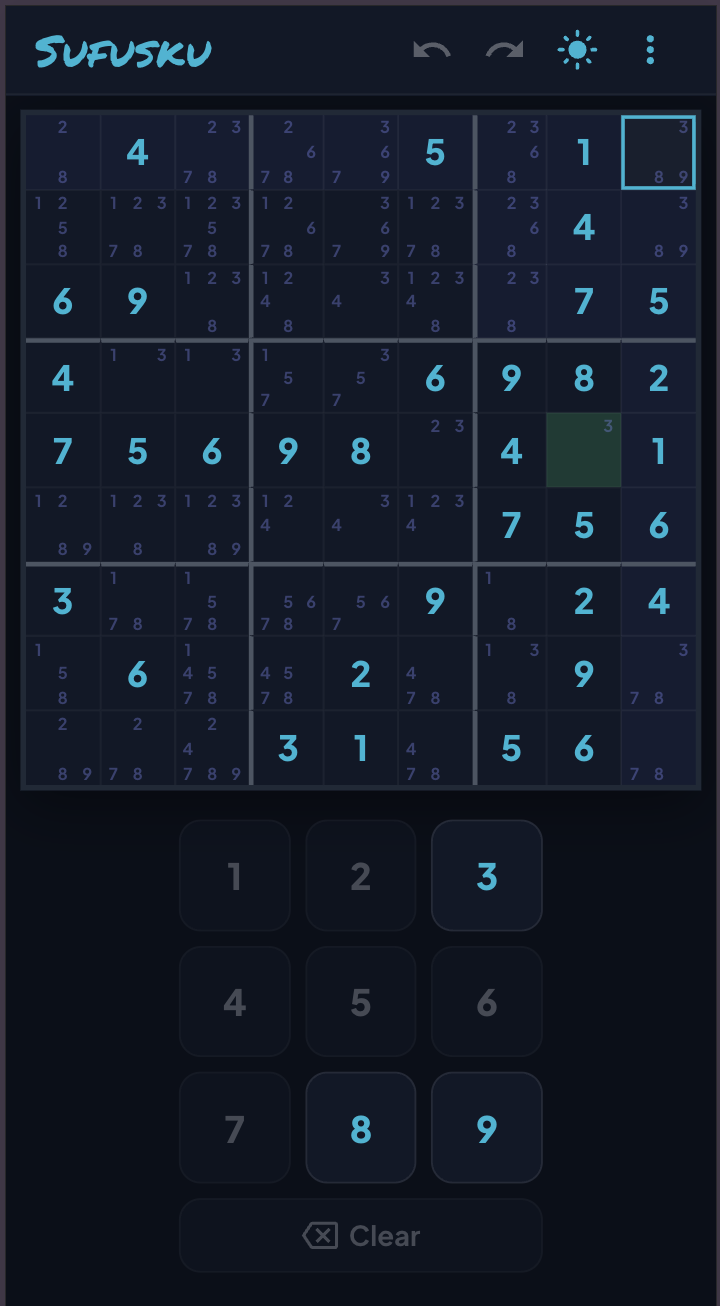
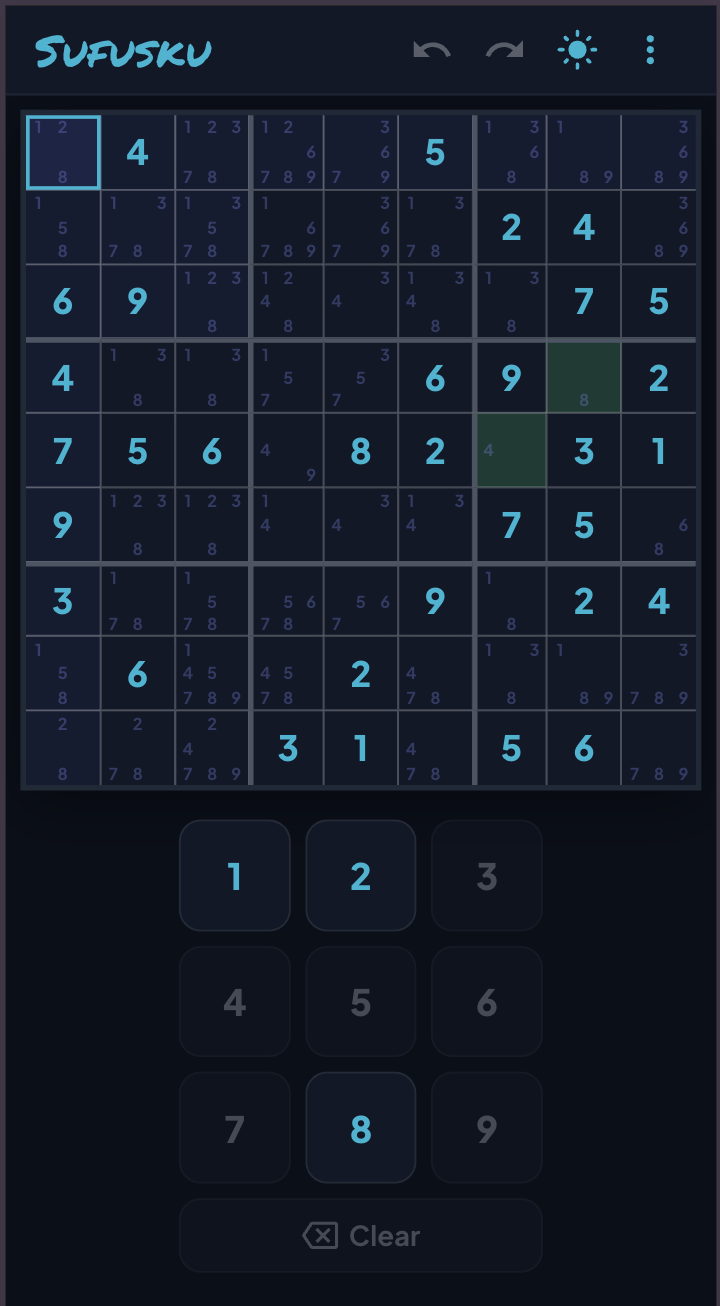
style: strengthen cell borders, fade candidate grid, update screenshot
Candidate digits (30% opacity) made cell boundaries hard to read against
each other, so bumped the subline border alpha to compensate.

diff --git a/src/theme.ts b/src/theme.ts
@@ -56,7 +56,7 @@ const theme = createTheme({
         divider: 'rgba(255, 255, 255, 0.08)',
         board: {
           line: '#4b5563',
-          subline: 'rgba(255, 255, 255, 0.05)',
+          subline: 'rgba(255, 255, 255, 0.3)',
           frame: '#1f2937',
           shadow: '0 8px 32px rgba(0, 0, 0, 0.4)',
           hoverBg: 'rgba(255, 255, 255, 0.03)',
@@ -97,7 +97,7 @@ const theme = createTheme({
         divider: 'rgba(0, 0, 0, 0.08)',
         board: {
           line: '#94a3b8',
-          subline: 'rgba(0, 0, 0, 0.08)',
+          subline: 'rgba(0, 0, 0, 0.3)',
           frame: '#cbd5e1',
           shadow: '0 8px 32px rgba(0, 0, 0, 0.15)',
           hoverBg: 'rgba(0, 0, 0, 0.03)',

diff --git a/src/components/CandidateRow.tsx b/src/components/CandidateRow.tsx
@@ -24,7 +24,7 @@ const CandidateRow = ({ candidates }: CandidateRowProps) => (
           fontSize: { xs: '9px', sm: '10px', md: '11px' },
           fontWeight: 700,
           color: candidates.has(num) ? 'primary.light' : 'transparent',
-          opacity: candidates.has(num) ? 0.35 : 1,
+          opacity: candidates.has(num) ? 0.3 : 1,
           lineHeight: 1,
         }}
       >